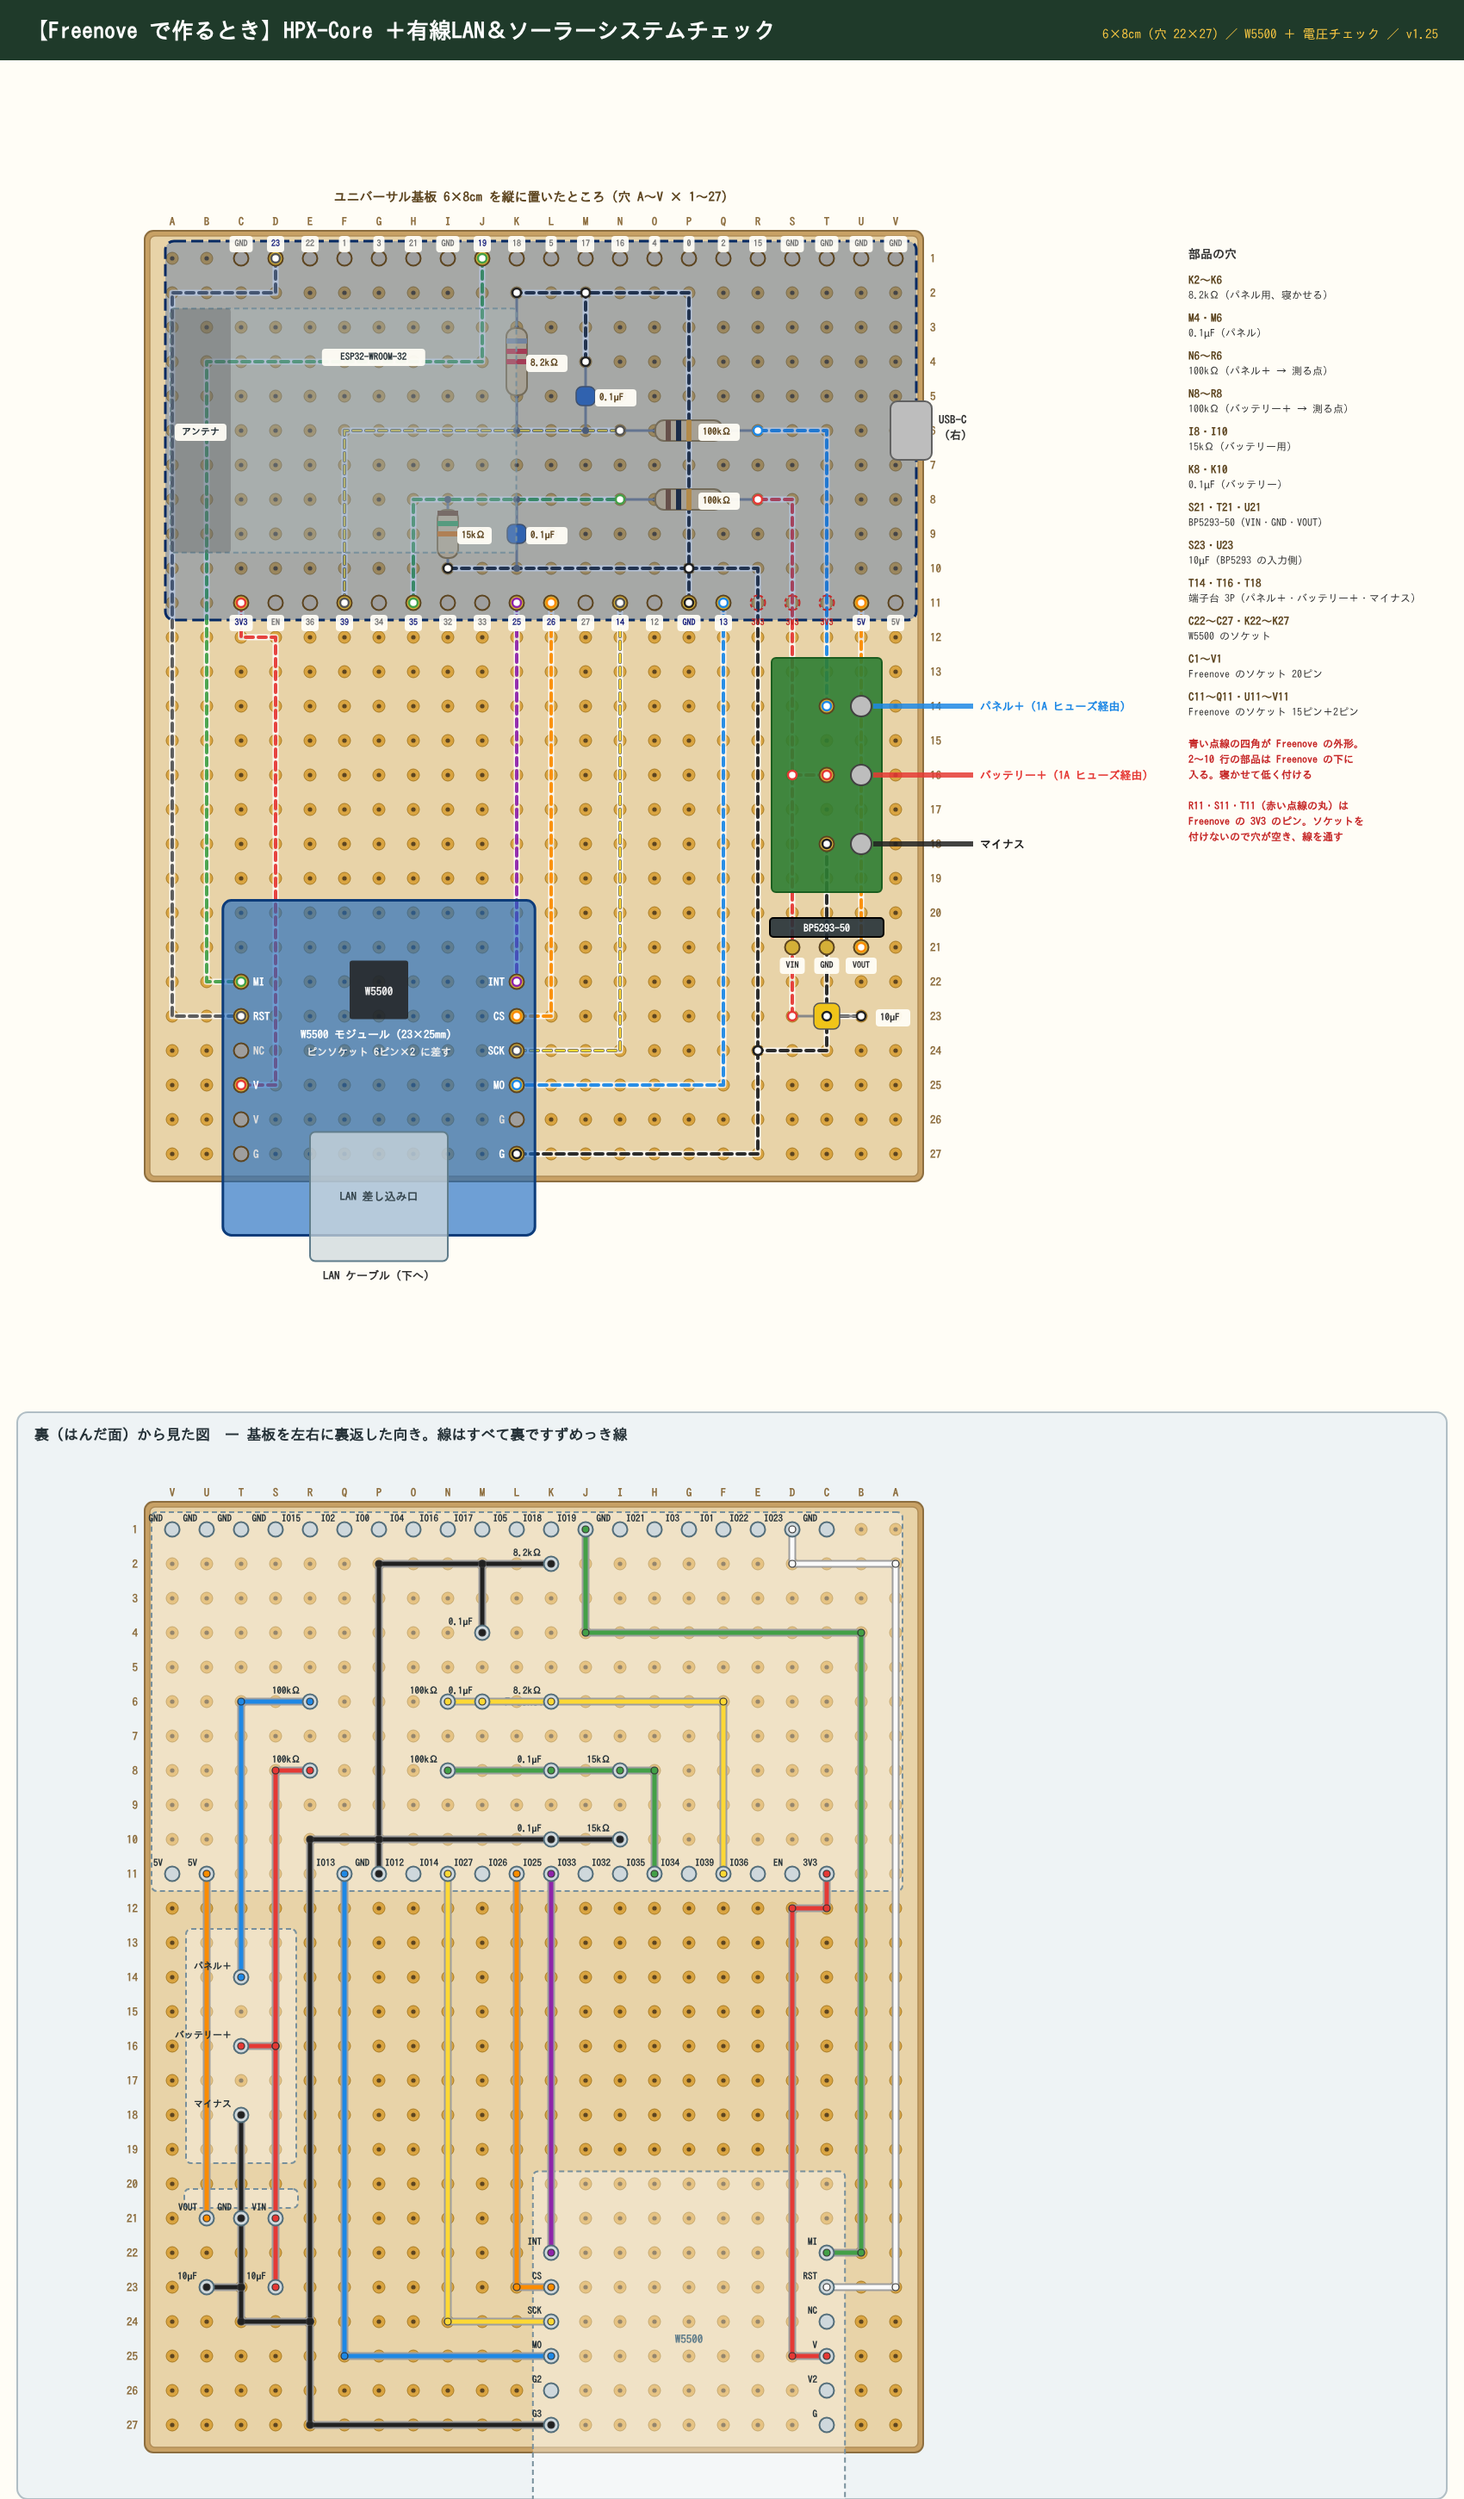
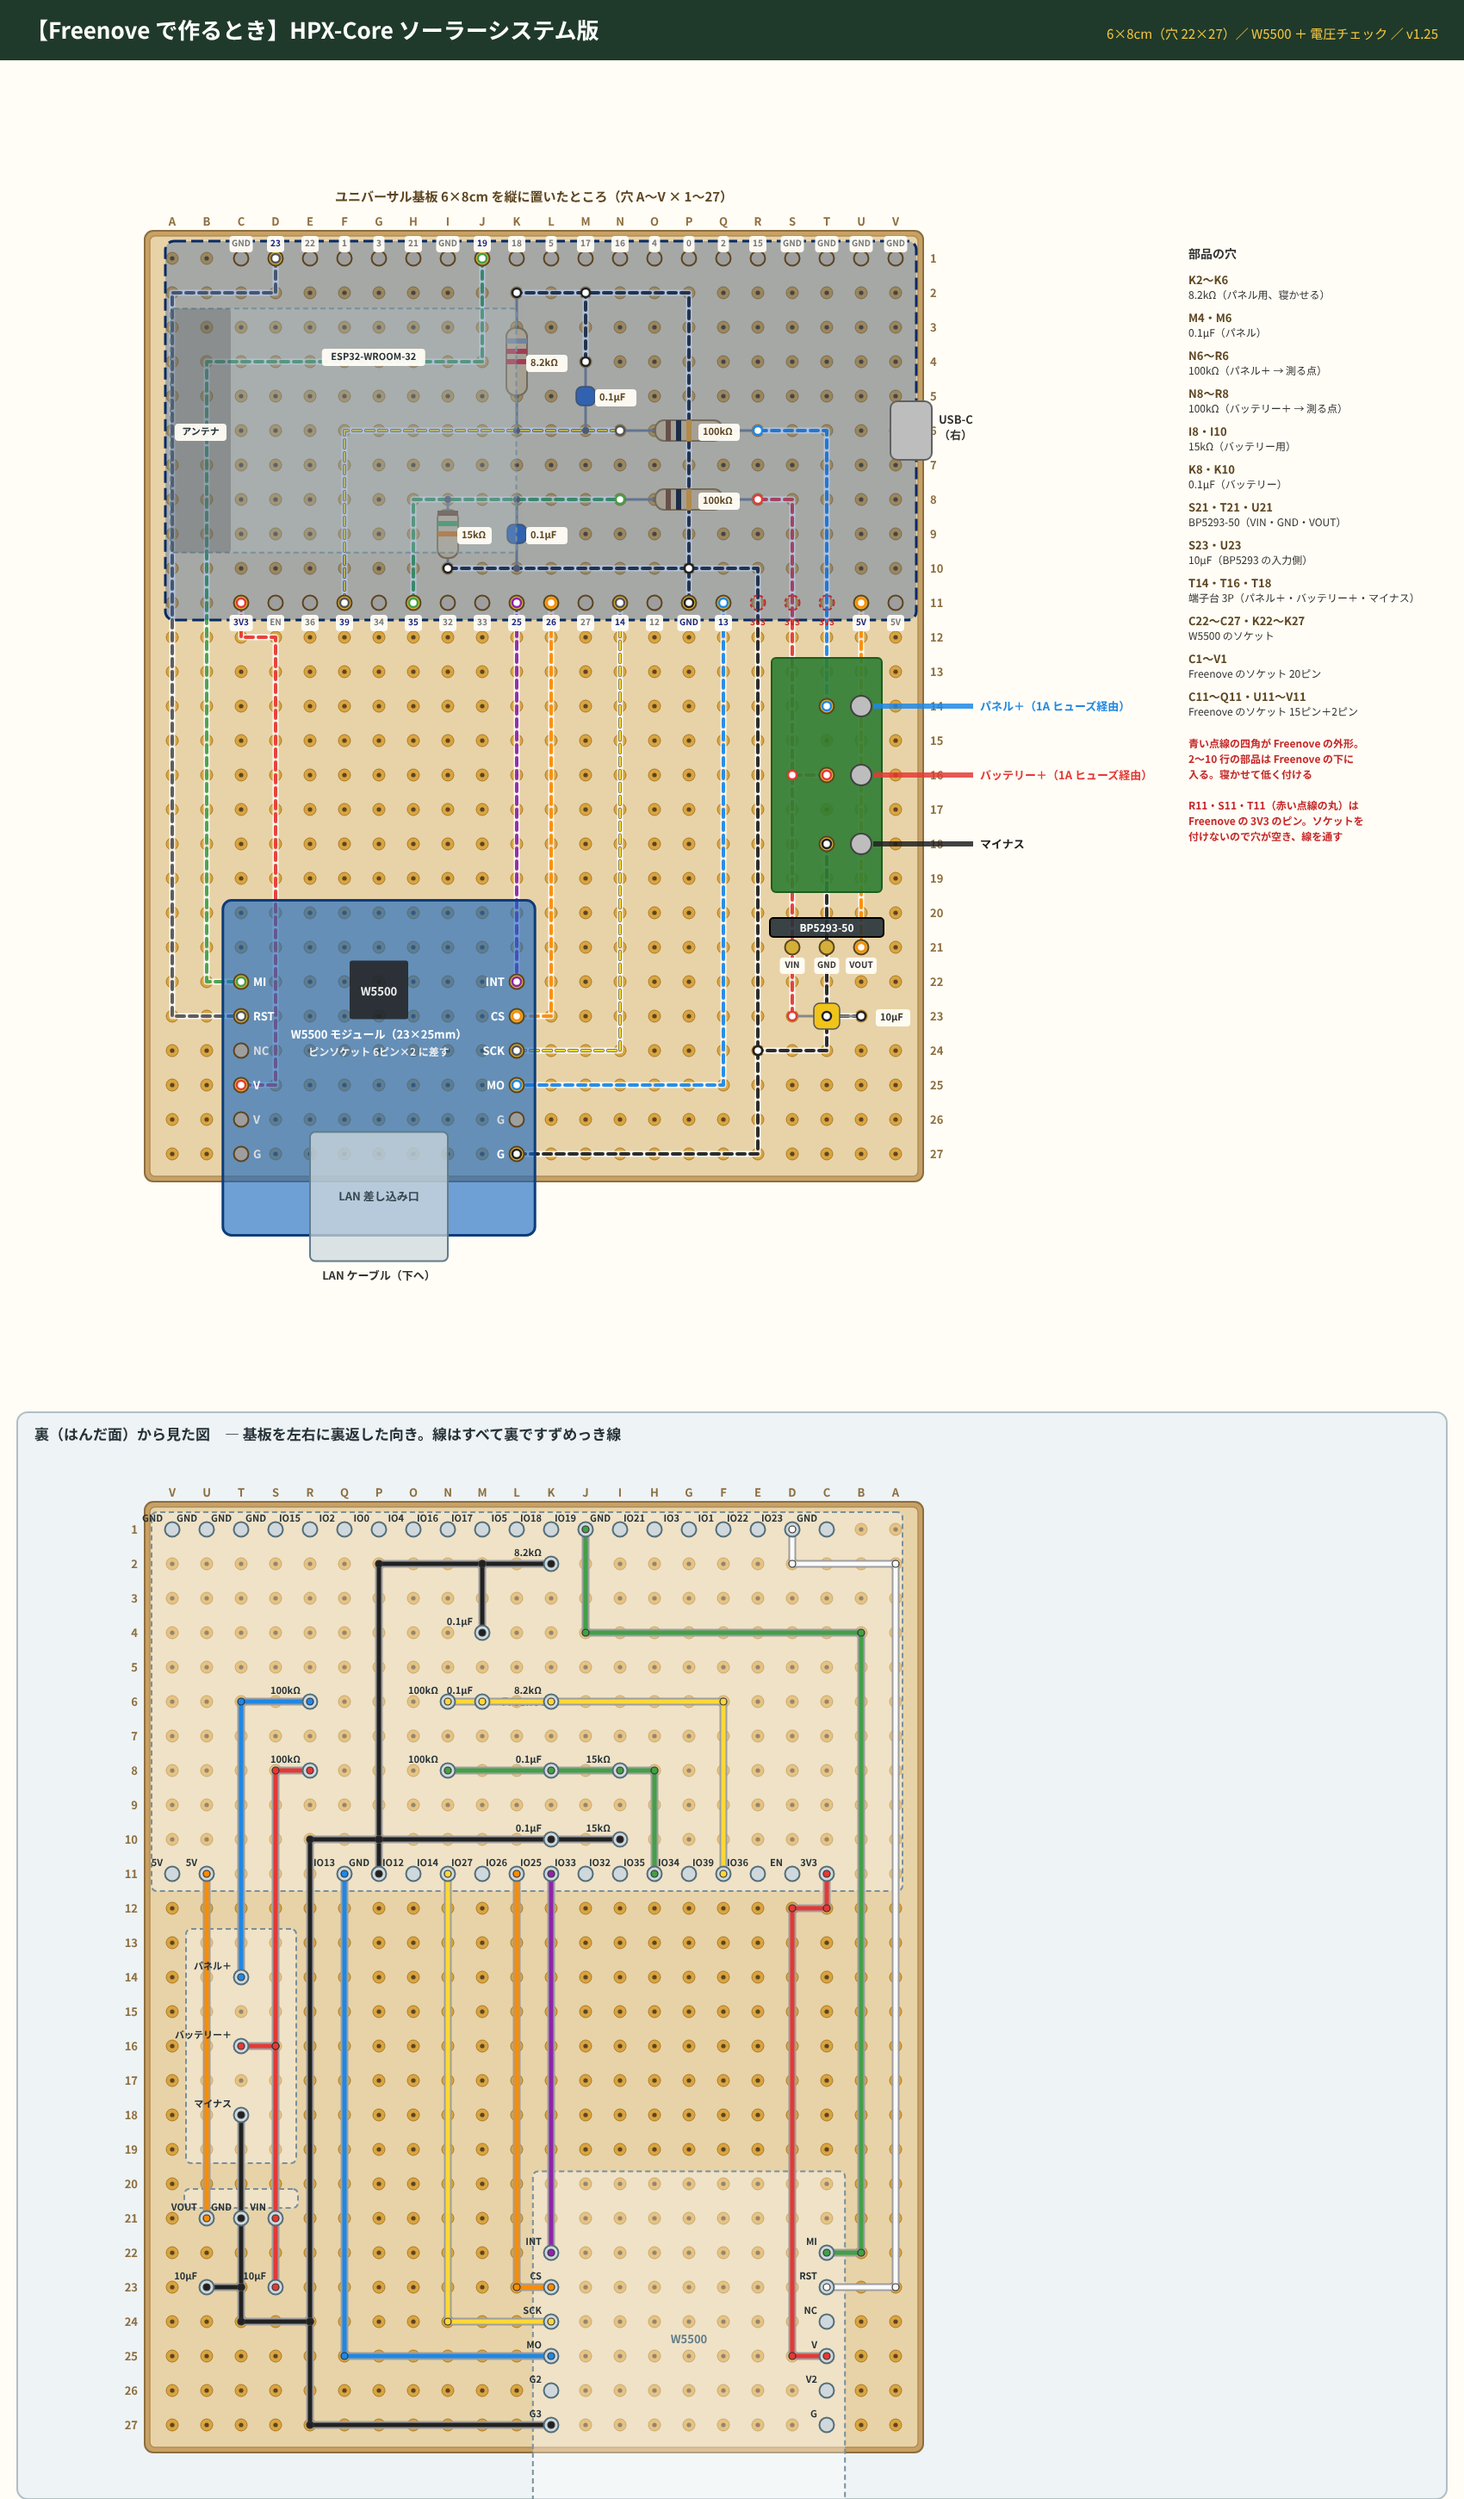
ソーラーシステム版 (Freenove) の配線図の題を「ソーラーシステム版」に描き直し
Claude-Session: https://claude.ai/code/session_01LCC9B4fnn4S7q4RLTXb85w

diff --git a/hardware/wiring/gen_pcb.py b/hardware/wiring/gen_pcb.py
@@ -1124,7 +1124,7 @@ finish(s, y, [
 # 「＋有線LAN」と同じ ESP-32・W5500 の並びに、上の空いた所（1〜9行）へ 12V バッテリー・パネルの電圧を測る部品と BP5293-50 を足す
 OX, OY = 260, 200
 s = S(1700, 3600)
-title(s, "【ELEGOO で作るとき】HPX-Core ＋有線LAN＆ソーラーシステムチェック 基板", "6×8cm 縦置き ／ ELEGOO ESP-32 ＋ W5500 ／ ファーム v1.25")
+title(s, "【ELEGOO で作るとき】HPX-Core ソーラーシステム版 基板", "6×8cm 縦置き ／ ELEGOO ESP-32 ＋ W5500 ／ ファーム v1.25")
 board(s, 25, 33, "ユニバーサル基板 6×8cm を縦に置いたところ（穴 A〜Y × 1〜33）")
 
 def R(n):   # 行の番号（1〜33）→ 図の行（0〜）
@@ -1809,7 +1809,7 @@ finish(s, y, [
 # パネル＝IO39（v1.25 で 34 から変更。FireBeetle の IO34 は基板の上で電池コネクタにつながっているため）、バッテリー＝IO35。5V は VCC へ。
 OX, OY = 260, 200
 s = S(1700, 3500)
-title(s, "HPX-Core（親機）＋有線LAN＆ソーラーシステムチェック 基板の配線図", "6×8cm（穴 A〜Y × 1〜33）縦置き ／ FireBeetle 2 ESP32-E ＋ W5500 ＋ 電圧チェック ／ ファーム HPX_Core v1.25")
+title(s, "HPX-Core（親機）ソーラーシステム版 基板の配線図", "6×8cm（穴 A〜Y × 1〜33）縦置き ／ FireBeetle 2 ESP32-E ＋ W5500 ＋ 電圧チェック ／ ファーム HPX_Core v1.25")
 board(s, 25, 33, "ユニバーサル基板 6×8cm を縦に置いたところ（穴 A〜Y × 1〜33）")
 fb("B", "K", 12, True, LAN_USED | {"B17", "B19", "B23", "B25"}, "ピンソケット 18ピン・14ピンに差す")
 fb_w5500(22)
@@ -2599,7 +2599,7 @@ for kind, (r0, rw, wused, LV) in DK_LANV.items():
     n = len(DK_PINS[kind][0])
     OX, OY = 260, 200
     s = S(1700, 3600)
-    title(s, f"{DK_TAG[kind]}HPX-Core ＋有線LAN＆ソーラーシステムチェック", f"6×8cm 縦置き ／ {DK_NAME[kind]}（180度回して差す）＋ W5500 ＋ 電圧チェック ／ ファーム v1.25")
+    title(s, f"{DK_TAG[kind]}HPX-Core ソーラーシステム版", f"6×8cm 縦置き ／ {DK_NAME[kind]}（180度回して差す）＋ W5500 ＋ 電圧チェック ／ ファーム v1.25")
     board(s, 25, 33, "ユニバーサル基板 6×8cm を縦に置いたところ（穴 A〜Y × 1〜33）")
     dk(kind, 1, r0, {hs[0] for _, _, hs, _ in LV if hs[0][0] in "BL"}, DK_SOCK[kind], rot=True)
     w5500_used(rw, wused)
@@ -2785,7 +2785,7 @@ FN5_USED = {hs[0] for _, _, _, hs, _ in FN5_W} | {"C11", "P11"}
 OX, OY = 200, 300
 s = S(1700, 4200)
 FN5_NETS.clear()
-title(s, f"{DK_TAG['freenove']}HPX-Core ＋有線LAN＆ソーラーシステムチェック", "6×8cm（穴 22×27）／ W5500 ＋ 電圧チェック ／ v1.25")
+title(s, f"{DK_TAG['freenove']}HPX-Core ソーラーシステム版", "6×8cm（穴 22×27）／ W5500 ＋ 電圧チェック ／ v1.25")
 board(s, 22, 27, "ユニバーサル基板 6×8cm を縦に置いたところ（穴 A〜V × 1〜27）")
 B100 = ["#8d5524", "#212121", "#f9a825"]
 res_flat("K2", "K6", "8.2kΩ", ["#9e9e9e", "#e53935", "#e53935"], (-2000, -2000))
